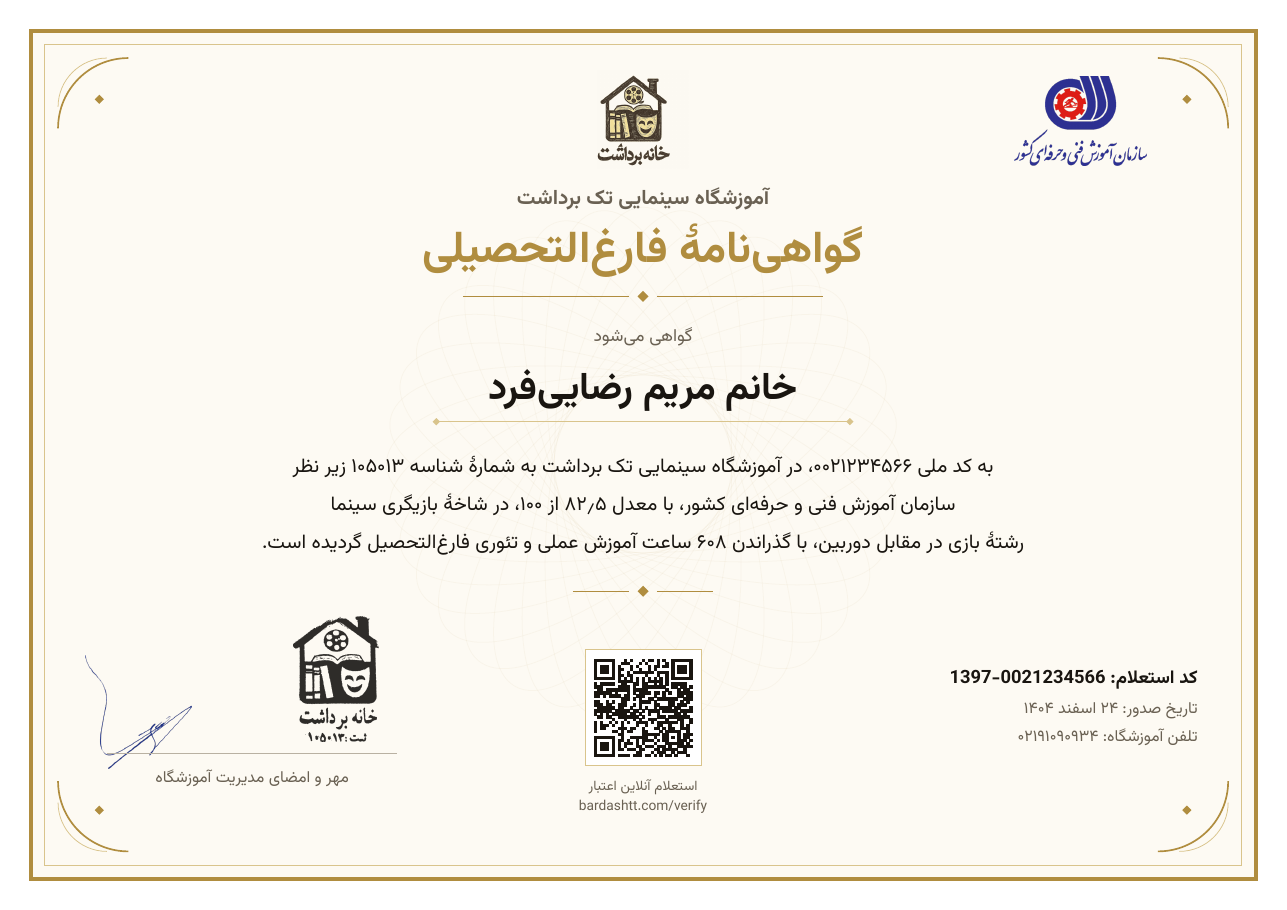
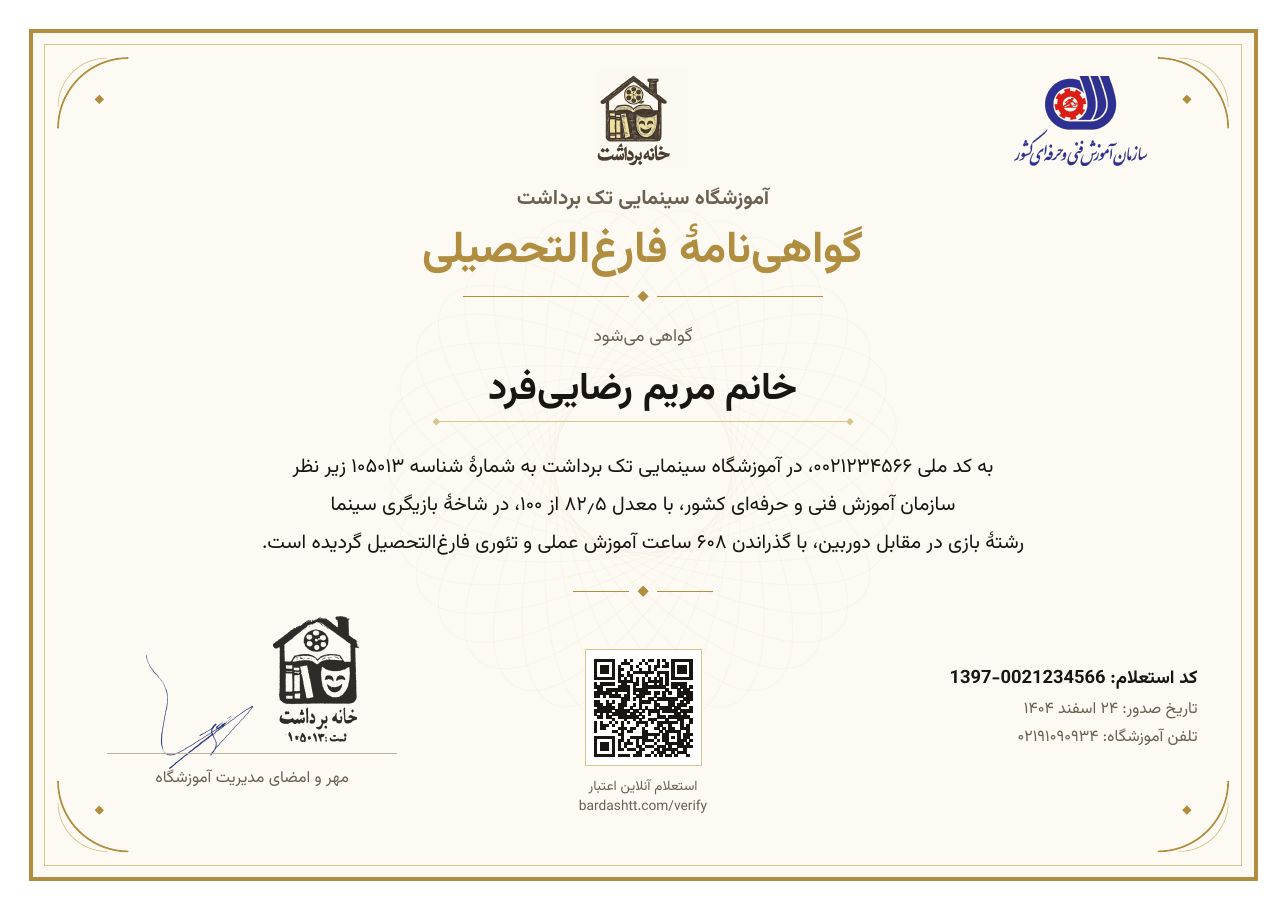
Update 4 files

Changed region(s): [[0.2176, 0.6769, 0.3108, 0.8308], [0.0932, 0.7692, 0.1865, 0.8308]]

diff --git a/nextjs/lib/certificatePdf.js b/nextjs/lib/certificatePdf.js
@@ -322,11 +322,14 @@ export async function buildCertificatePdf(cert) {
   // امضا و مهر کمی روی خطِ امضا مینشینند، همانطور که روی کاغذ واقعی زده میشوند.
   // مهر ایستاده است (نقشِ خانه + نام + شمارهٔ ثبت)، پس ارتفاعش مبنای اندازه است و کمی
   // بالاتر از خط میایستد تا شمارهٔ ثبتِ پایینِ مهر روی خط نیفتد.
-  if (fs.existsSync(SIGNATURE)) doc.image(SIGNATURE, signX - 2, footY - 6, { fit: [128, 74] });
+  // هر دو تصویر تا لبهٔ جوهر کراپ شدهاند، پس عرضِ واقعیِ هرکدام از نسبتِ خودش درمیآید:
+  // امضا حدود ۶۹pt و مهر حدود ۵۶pt. جفتشان با فاصلهٔ کوتاه کنار هم و وسطِ خطِ امضا
+  // مینشینند تا مثل کاغذِ واقعی یک بلوکِ بههمپیوسته دیده شوند، نه دو عنصرِ جدا.
+  if (fs.existsSync(SIGNATURE)) doc.image(SIGNATURE, signX + 38, footY - 6, { fit: [128, 74] });
   if (fs.existsSync(STAMP)) {
     doc.save();
     doc.opacity(0.9);
-    doc.image(STAMP, signX + 134, footY - 32, { fit: [78, 82] });
+    doc.image(STAMP, signX + 121, footY - 32, { fit: [78, 82] });
     doc.opacity(1);
     doc.restore();
   }
